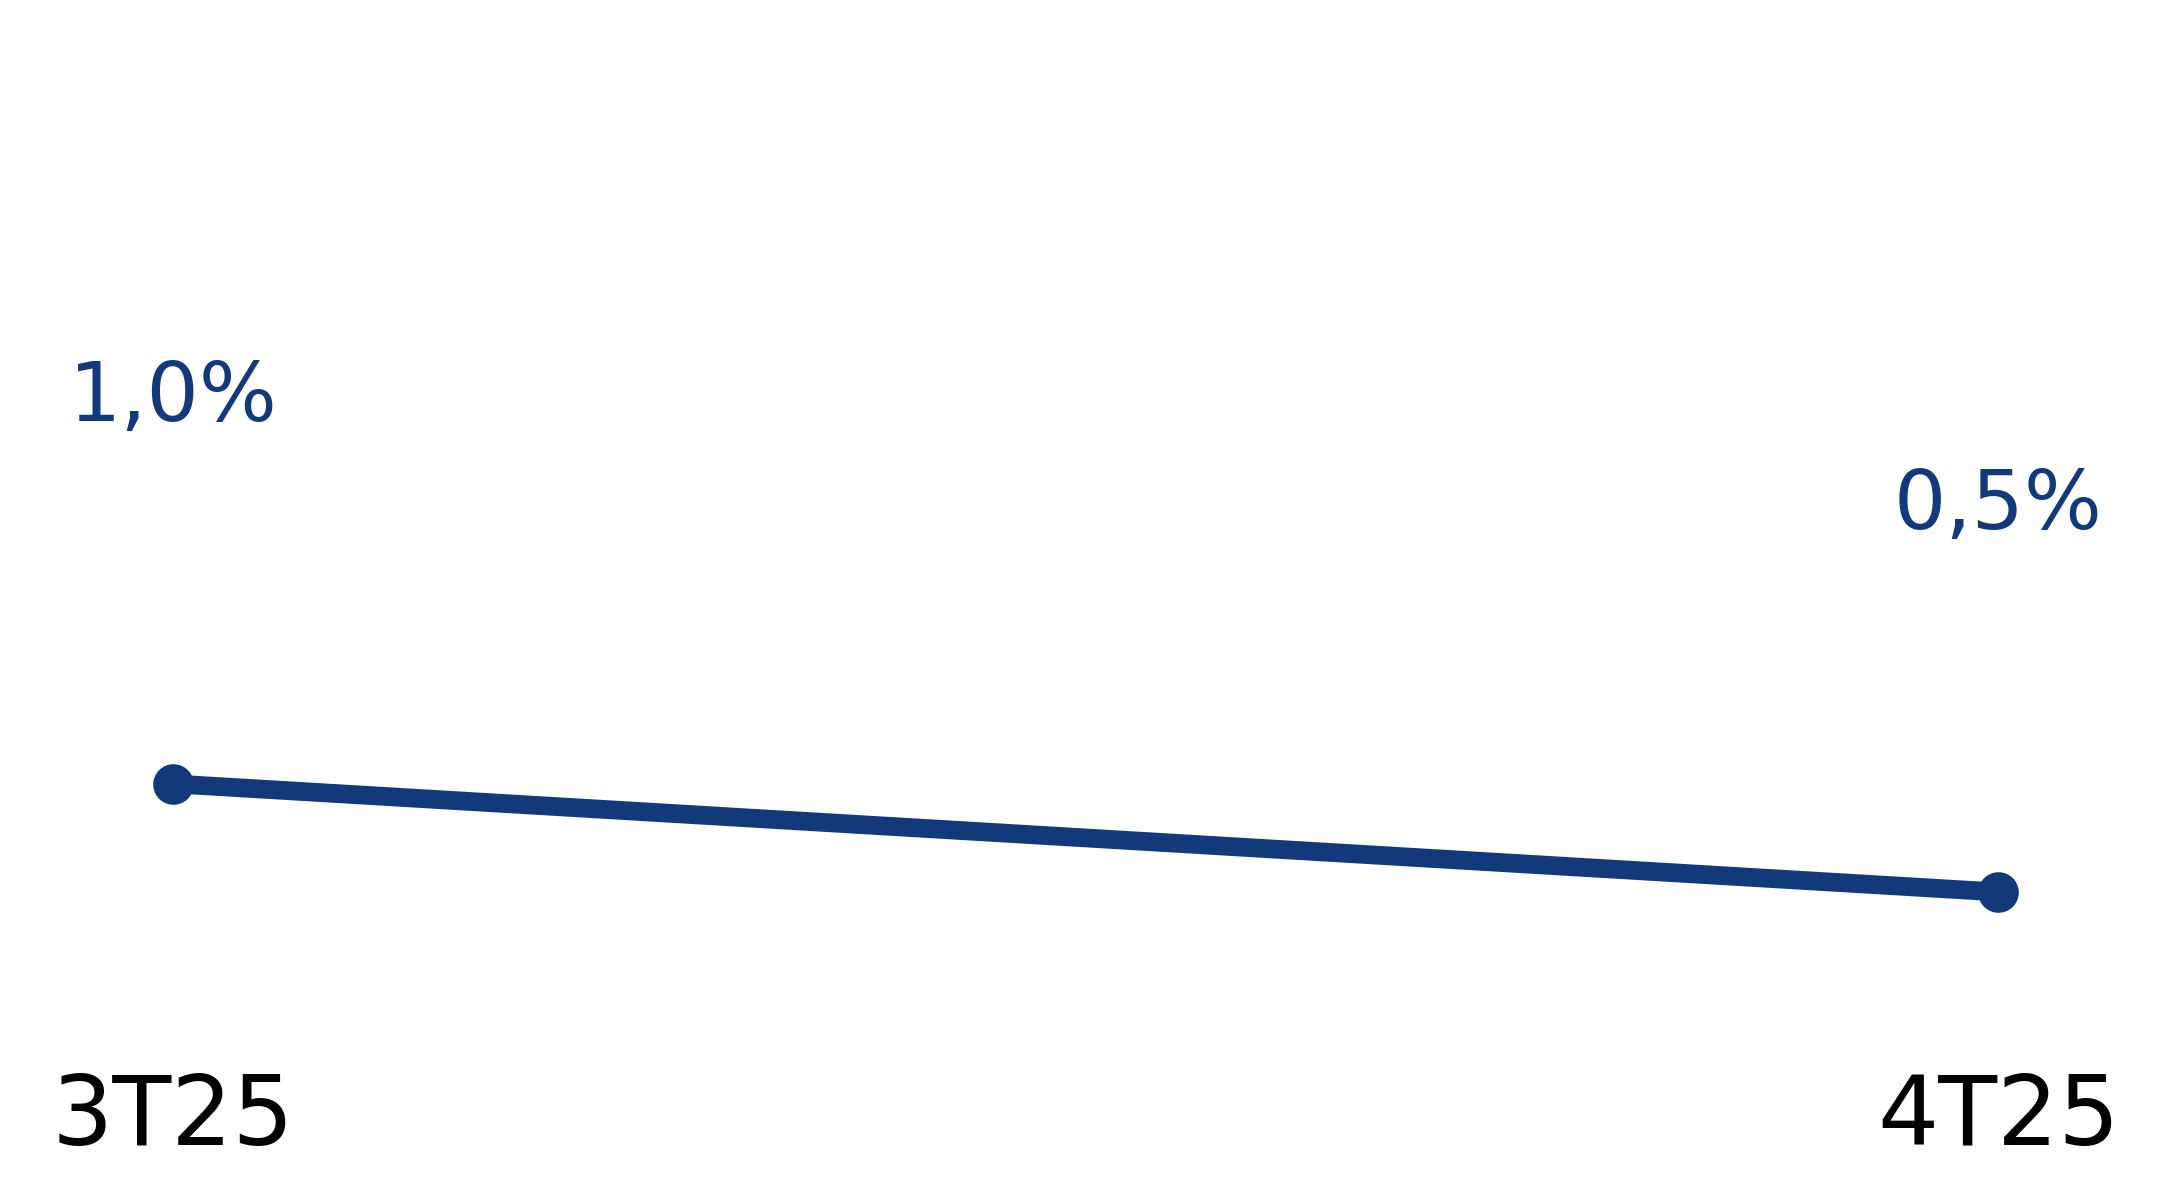
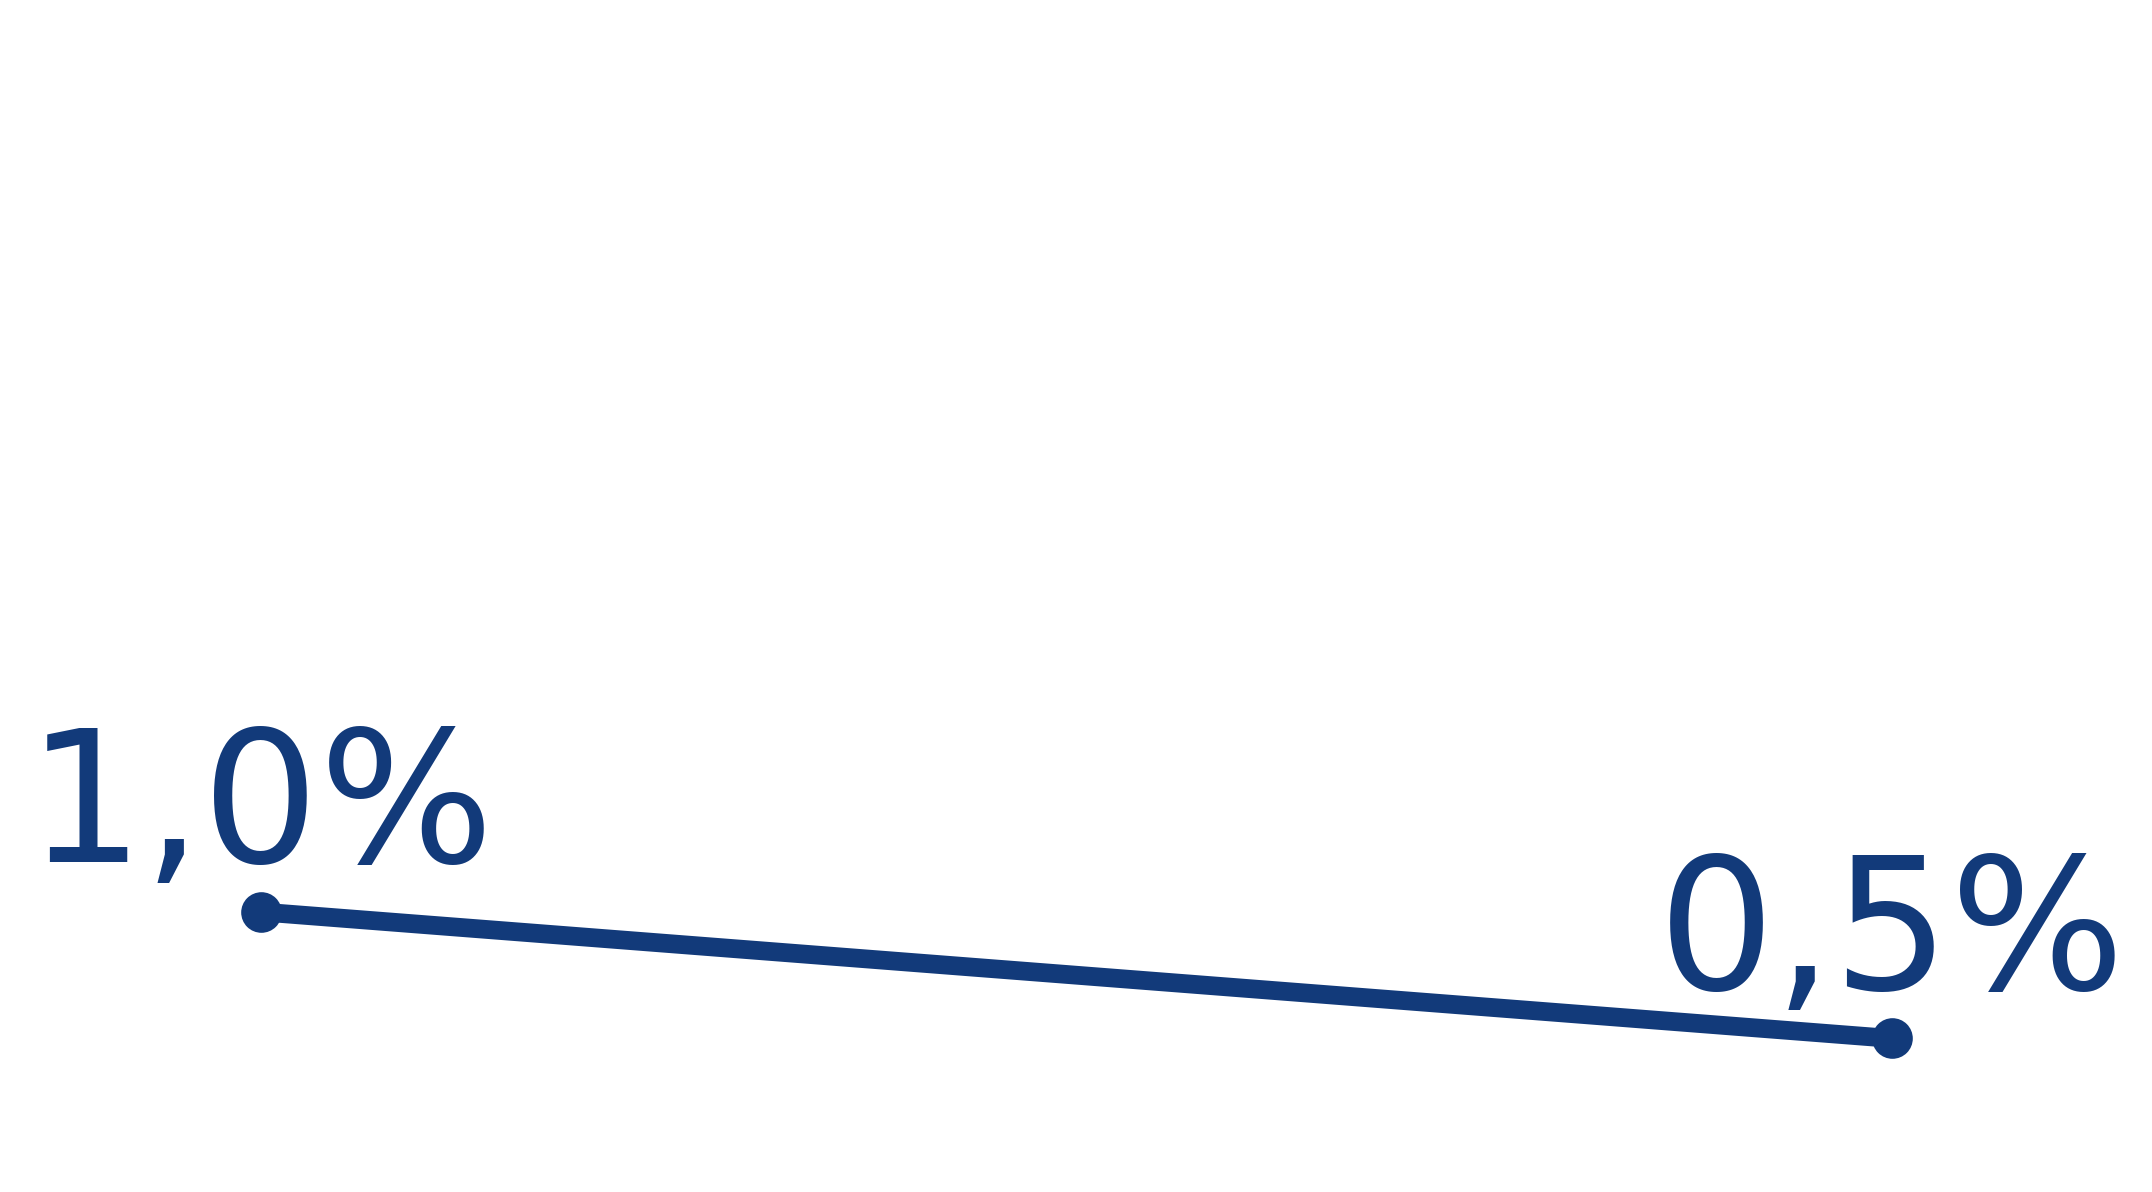
fine adjustments on slide22

diff --git a/tests/test_slide22_charts.py b/tests/test_slide22_charts.py
@@ -91,6 +91,7 @@ class TestSlide22Charts(unittest.TestCase):
             label_offset_min=1.6,
             y_pad_factor=0.35,
             y_pad_min=3.5,
+            show_xlabels=True,
         ):
             captured_line_calls.append(
                 {
@@ -104,6 +105,7 @@ class TestSlide22Charts(unittest.TestCase):
                     "label_offset_min": label_offset_min,
                     "y_pad_factor": y_pad_factor,
                     "y_pad_min": y_pad_min,
+                    "show_xlabels": show_xlabels,
                 }
             )
 
@@ -201,8 +203,8 @@ class TestSlide22Charts(unittest.TestCase):
                     "xlabels": ["3T25", "4T25"],
                     "values": [515.299, 533.967],
                     "output_name": "22_carteira_reestruturada_barras.png",
-                    "bar_width": 0.22,
-                    "bar_slot": 0.24,
+                    "bar_width": 0.066,
+                    "bar_slot": 0.096,
                     "font_scale": 1.5,
                     "bracket_anchor": "center",
                     "bracket_top_gap_scale": 0.18,
@@ -232,11 +234,12 @@ class TestSlide22Charts(unittest.TestCase):
             ],
         )
         self.assertEqual([call["label_decimals"] for call in captured_line_calls[-3:]], [1, 1, 1])
-        self.assertEqual(captured_line_calls[-3]["label_font_scale"], 1.6)
-        self.assertEqual(captured_line_calls[-3]["label_offset_factor"], 0.02)
-        self.assertEqual(captured_line_calls[-3]["label_offset_min"], 0.10)
+        self.assertEqual(captured_line_calls[-3]["label_font_scale"], 2.24)
+        self.assertEqual(captured_line_calls[-3]["label_offset_factor"], 0.008)
+        self.assertEqual(captured_line_calls[-3]["label_offset_min"], 0.05)
         self.assertEqual(captured_line_calls[-3]["y_pad_factor"], 0.18)
         self.assertEqual(captured_line_calls[-3]["y_pad_min"], 0.28)
+        self.assertEqual(captured_line_calls[-3]["show_xlabels"], False)
         np.testing.assert_allclose(
             captured_line_calls[-3]["values"],
             [[0.6, 0.6]],
@@ -255,6 +258,10 @@ class TestSlide22Charts(unittest.TestCase):
             rtol=0.0,
             atol=1e-9,
         )
+        self.assertEqual(captured_line_calls[-1]["label_font_scale"], 2.24)
+        self.assertEqual(captured_line_calls[-1]["label_offset_factor"], 0.008)
+        self.assertEqual(captured_line_calls[-1]["label_offset_min"], 0.05)
+        self.assertEqual(captured_line_calls[-1]["show_xlabels"], False)
         np.testing.assert_allclose(
             captured_calls[1]["values"],
             [[7.0, 82.8, 10.3], [6.5, 83.1, 10.4]],

diff --git a/utils/slide22_charts.py b/utils/slide22_charts.py
@@ -360,6 +360,7 @@ def _plot_two_point_lines(
     label_offset_min: float = 1.6,
     y_pad_factor: float = 0.35,
     y_pad_min: float = 3.5,
+    show_xlabels: bool = True,
 ) -> None:
     import matplotlib.pyplot as plt
 
@@ -414,9 +415,13 @@ def _plot_two_point_lines(
 
     ax.set_xlim(float(x.min()) - 0.08, float(x.max()) + 0.08)
     ax.set_ylim(max(0.0, y_min - y_pad), min(100.0, y_max + y_pad))
-    ax.set_xticks(x)
-    ax.set_xticklabels(xlabels, fontsize=11.0 * SLIDE22_LINE_FONT_SCALE * float(x_tick_font_scale))
-    ax.tick_params(axis="x", bottom=False, pad=8)
+    if show_xlabels:
+        ax.set_xticks(x)
+        ax.set_xticklabels(xlabels, fontsize=11.0 * SLIDE22_LINE_FONT_SCALE * float(x_tick_font_scale))
+        ax.tick_params(axis="x", bottom=False, pad=8)
+    else:
+        ax.set_xticks([])
+        ax.tick_params(axis="x", bottom=False, labelbottom=False)
     ax.set_yticks([])
     for spine in ("left", "right", "top", "bottom"):
         ax.spines[spine].set_visible(False)
@@ -604,8 +609,8 @@ def generate_slide22_charts(*, xlsx_path: Path, output_dir: Path) -> list[Path]:
         xlabels=xlabels_reestruturada,
         values=reestruturada_bar_values,
         output_path=reestruturada_bar_output,
-        bar_width=0.22,
-        bar_slot=0.24,
+        bar_width=0.066,
+        bar_slot=0.096,
         font_scale=1.5,
         bracket_anchor="center",
         bracket_top_gap_scale=0.18,
@@ -627,11 +632,12 @@ def generate_slide22_charts(*, xlsx_path: Path, output_dir: Path) -> list[Path]:
         values=reestruturada_line_values.reshape(1, -1),
         output_path=reestruturada_line_output,
         label_decimals=1,
-        label_font_scale=1.6,
-        label_offset_factor=0.02,
-        label_offset_min=0.10,
+        label_font_scale=2.24,
+        label_offset_factor=0.008,
+        label_offset_min=0.05,
         y_pad_factor=0.18,
         y_pad_min=0.28,
+        show_xlabels=False,
     )
     generated.append(reestruturada_line_output)
 
@@ -682,6 +688,10 @@ def generate_slide22_charts(*, xlsx_path: Path, output_dir: Path) -> list[Path]:
         values=npl_line_values.reshape(1, -1),
         output_path=npl_line_output,
         label_decimals=1,
+        label_font_scale=2.24,
+        label_offset_factor=0.008,
+        label_offset_min=0.05,
+        show_xlabels=False,
     )
     generated.append(npl_line_output)
 
